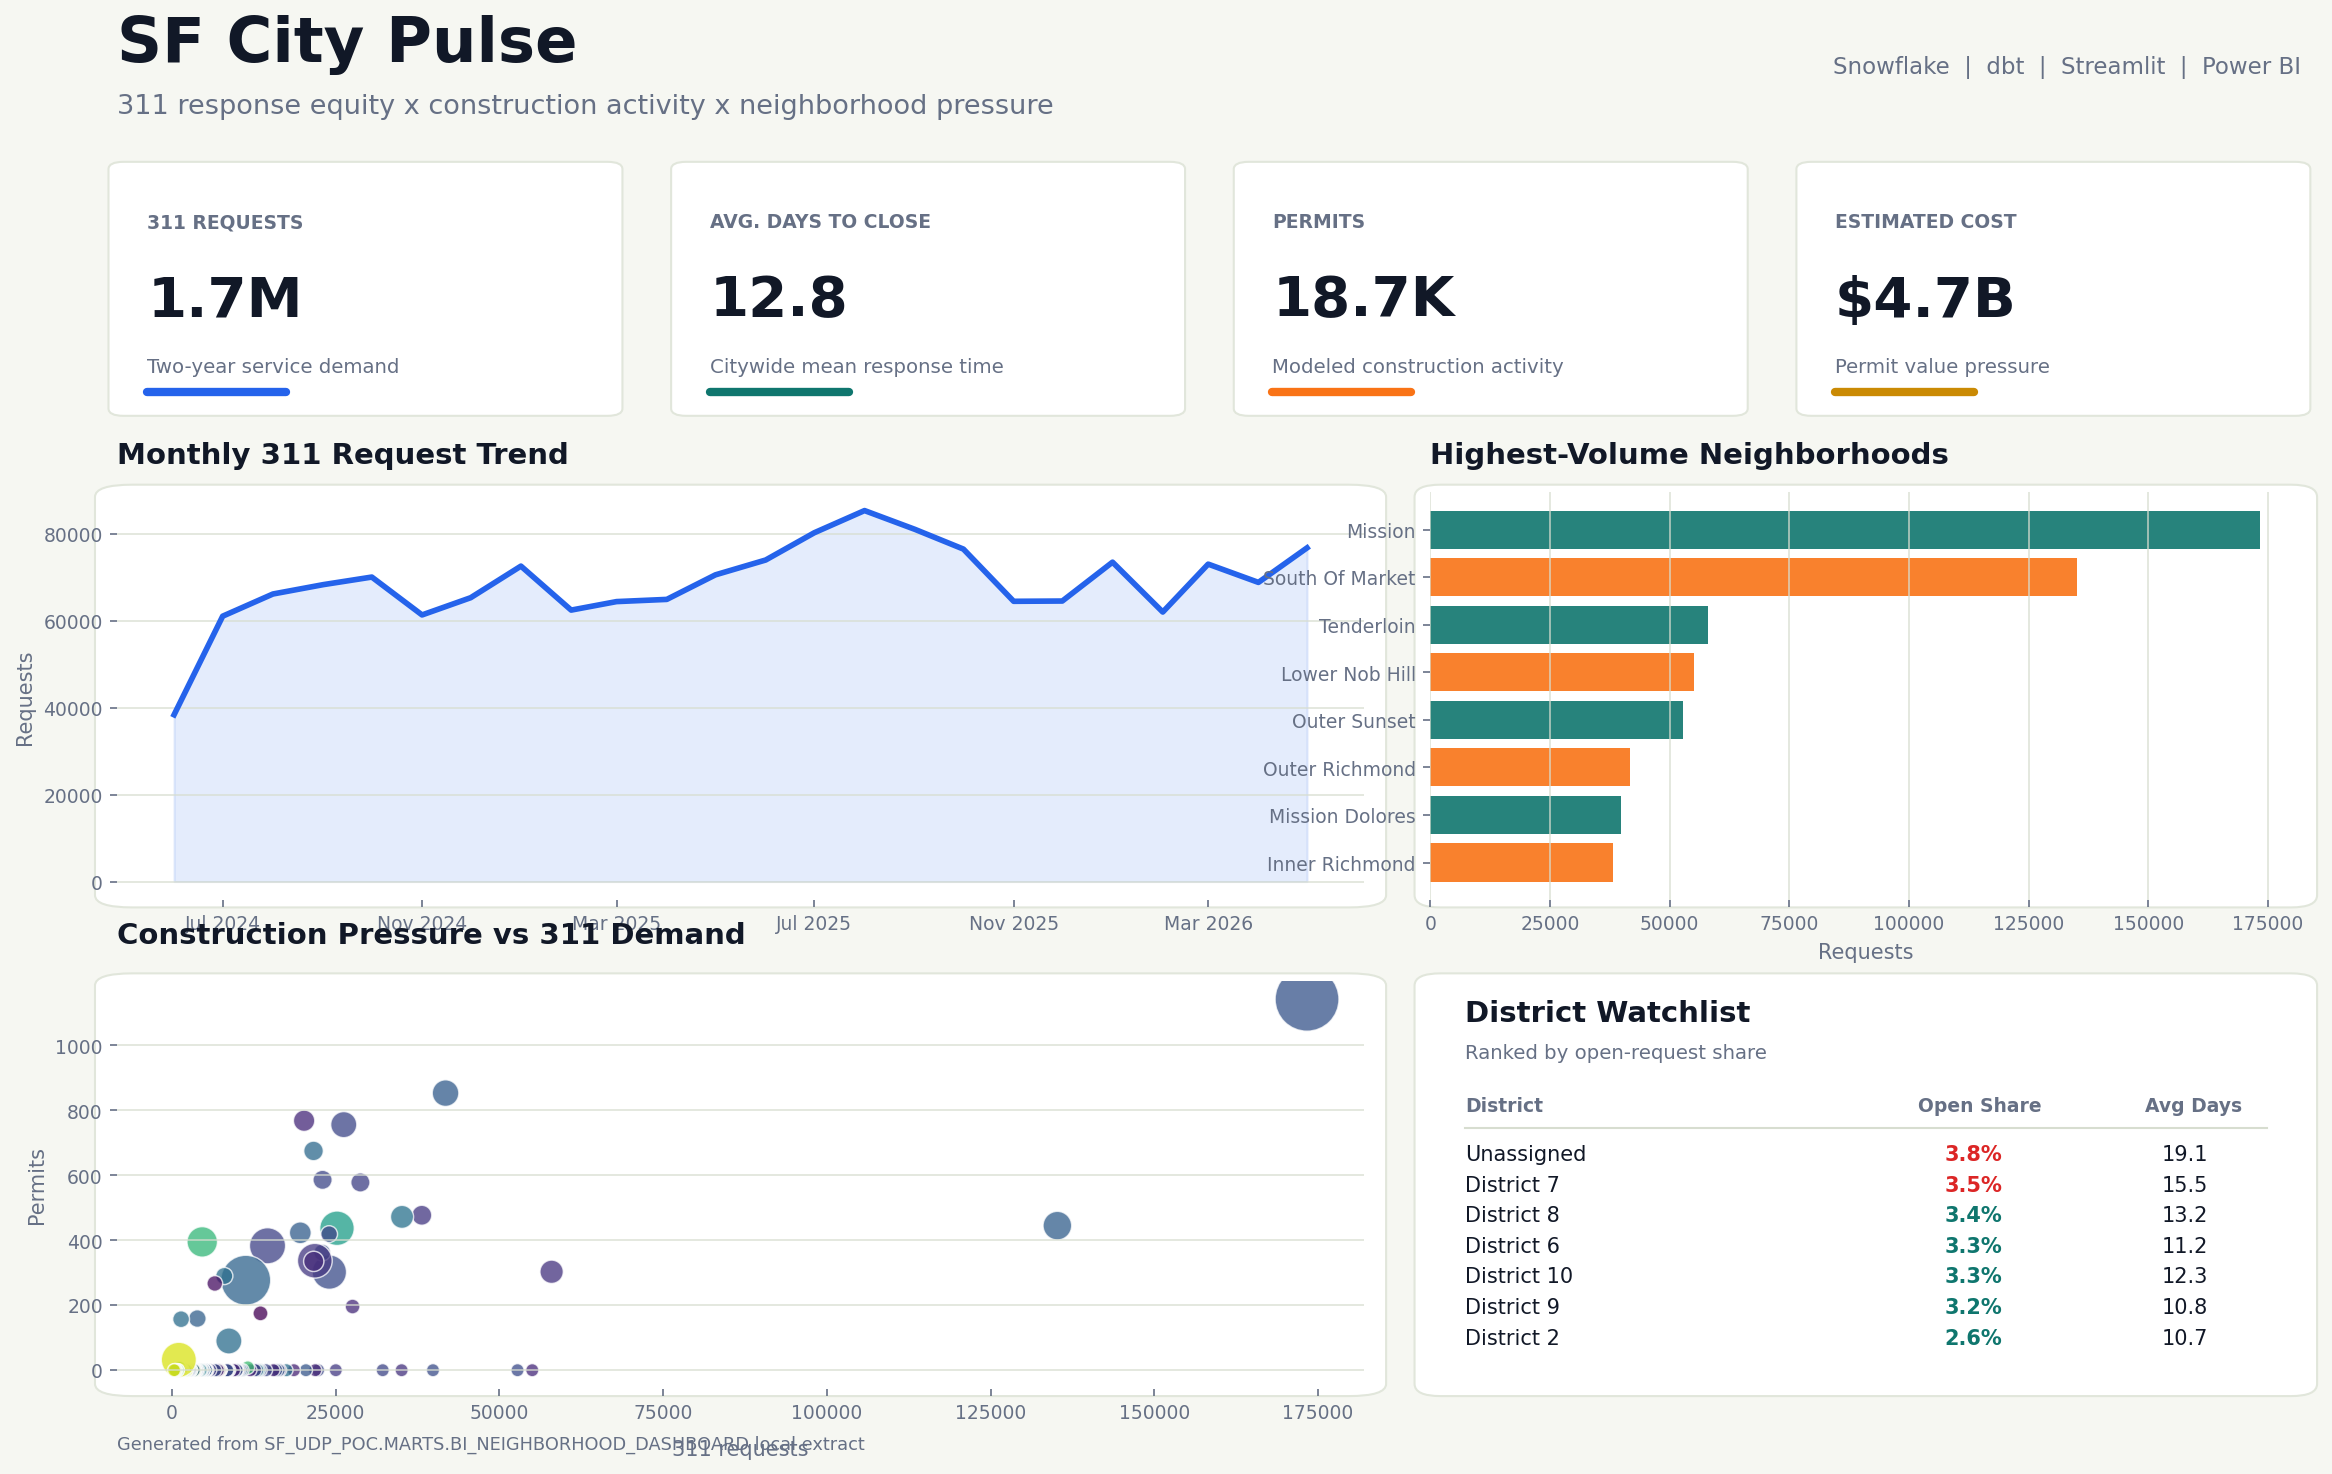
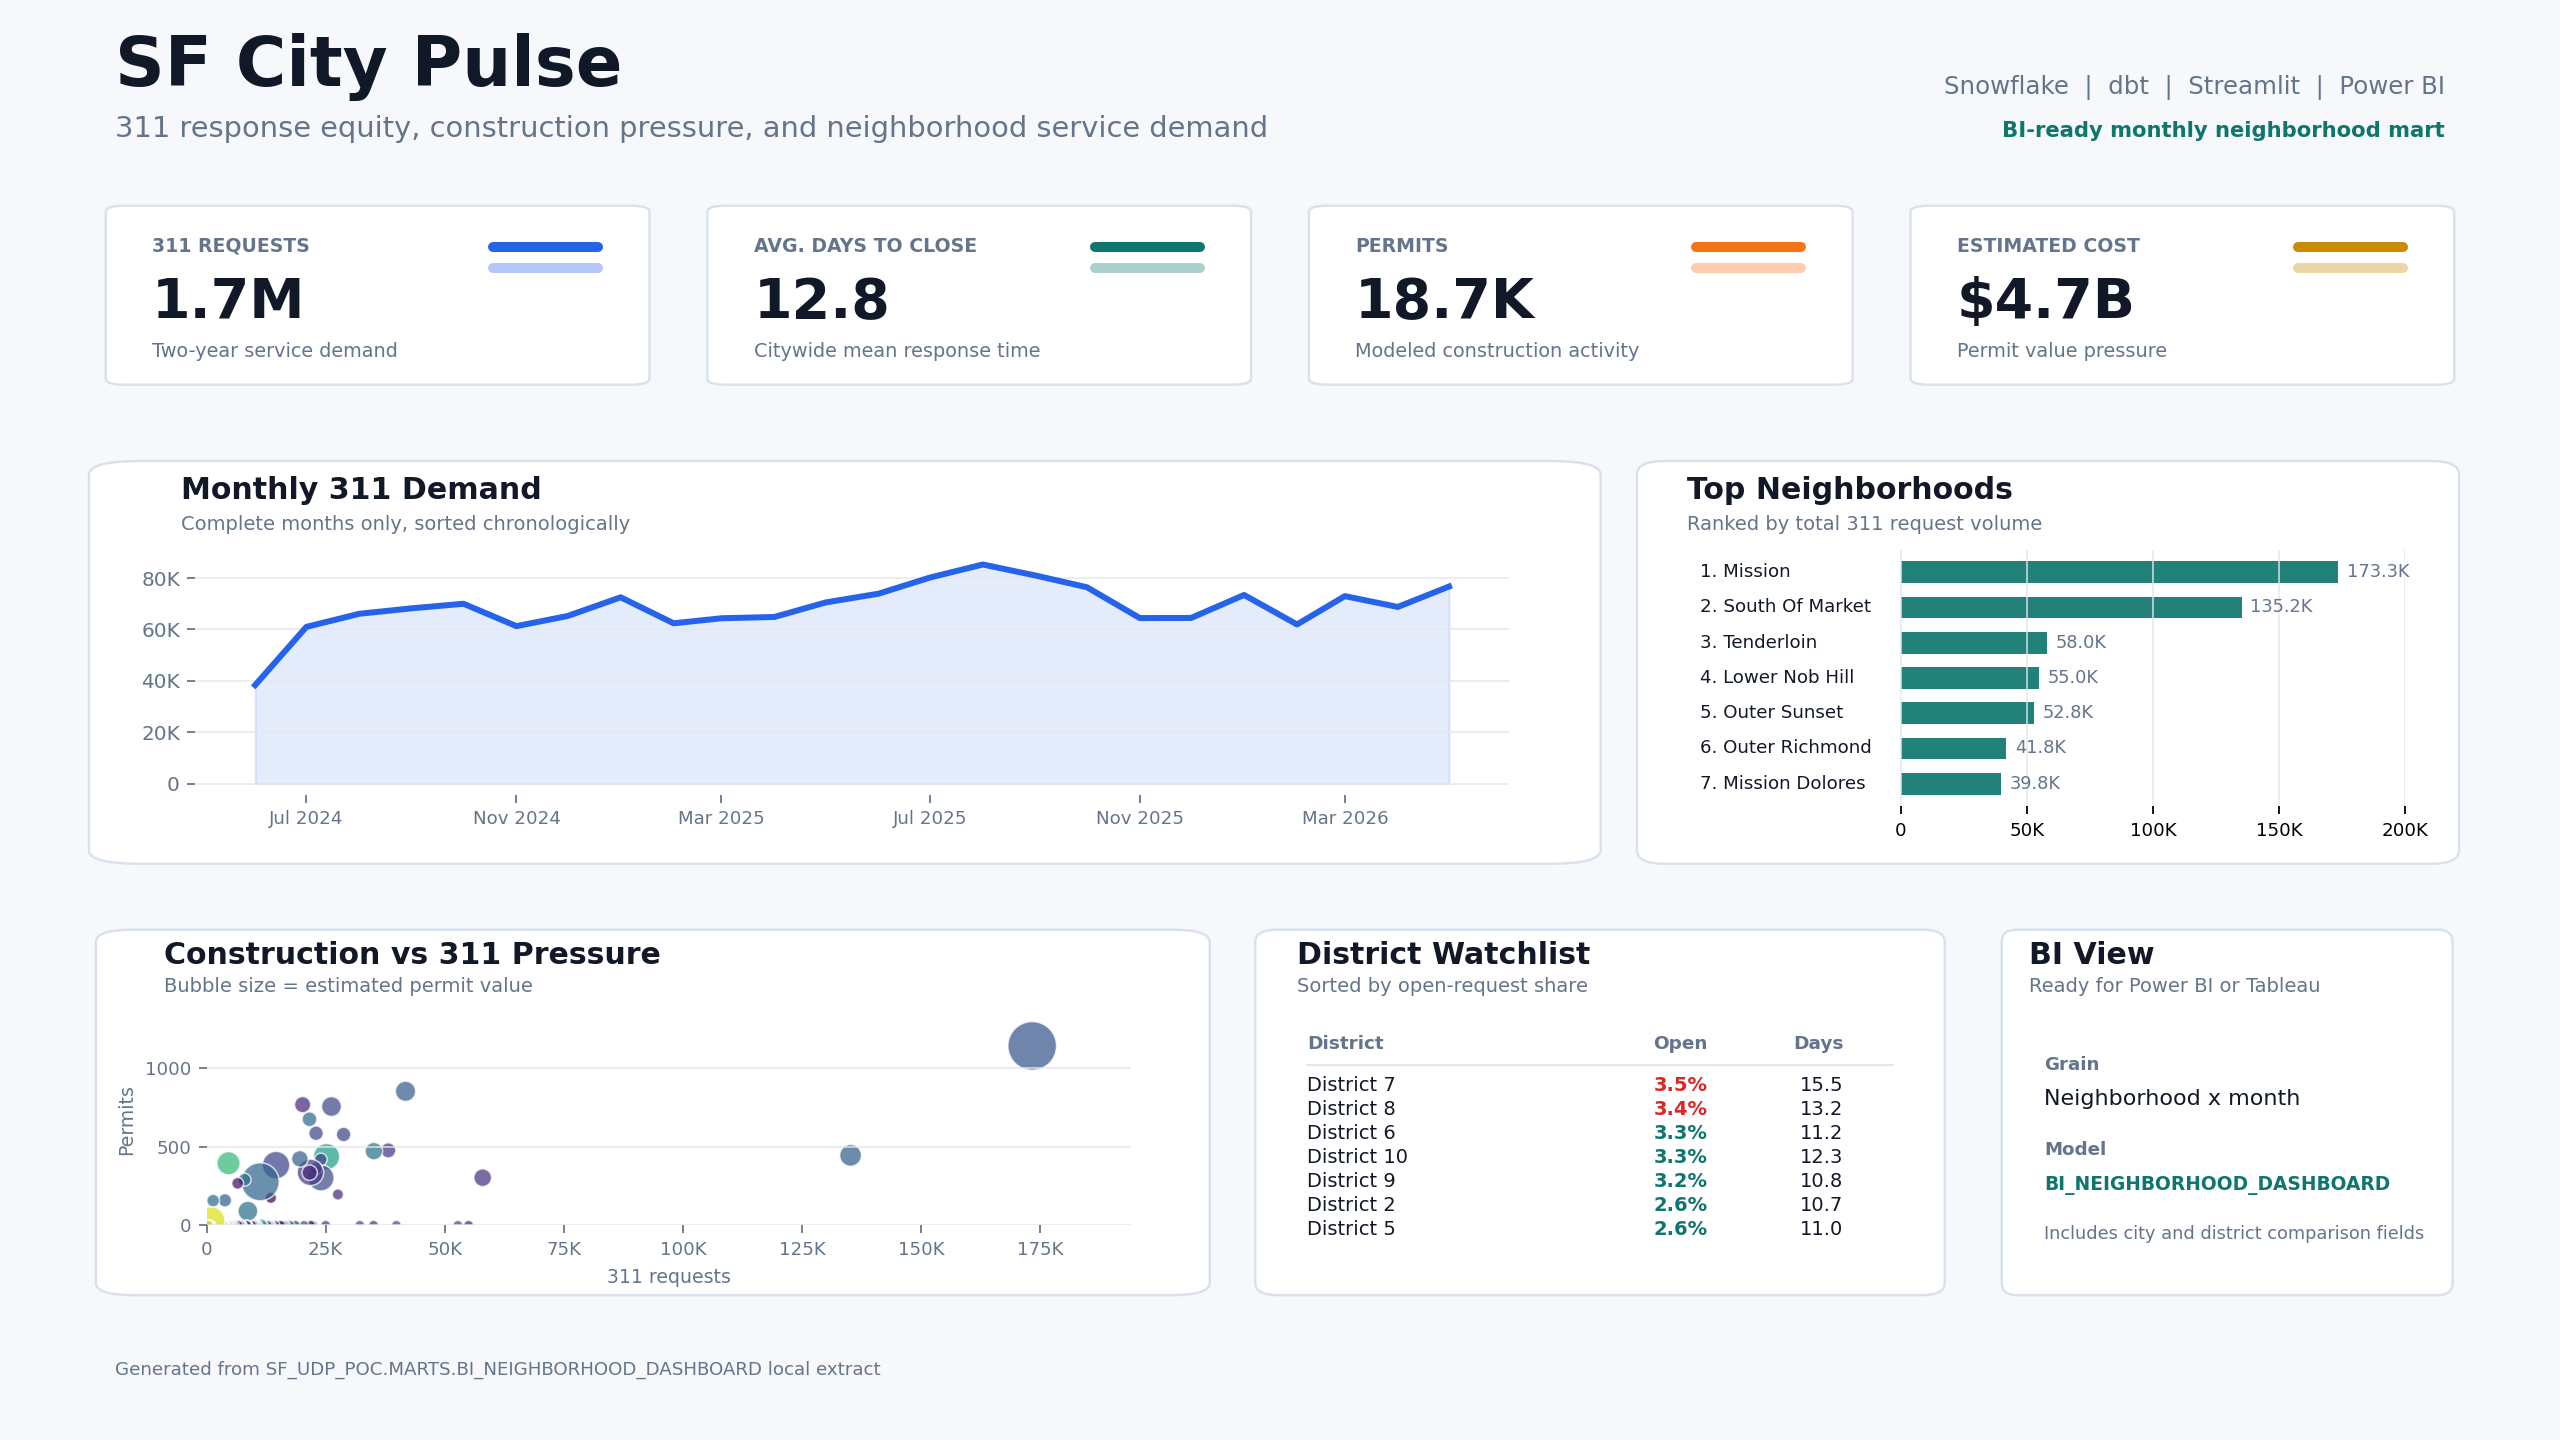
Polish README dashboard preview

diff --git a/scripts/render_readme_dashboard_preview.py b/scripts/render_readme_dashboard_preview.py
@@ -12,21 +12,23 @@ import matplotlib.dates as mdates
 import matplotlib.pyplot as plt
 import pandas as pd
 from matplotlib.patches import FancyBboxPatch
+from matplotlib.ticker import FuncFormatter
 
 
 CSV_PATH = ROOT / "bi" / "sf_city_pulse_powerbi_extract.csv"
 OUTPUT_PATH = ROOT / "docs" / "assets" / "sf-city-pulse-dashboard.png"
 
-BG = "#f6f7f2"
+BG = "#f7f8fb"
 PANEL = "#ffffff"
 INK = "#111827"
-MUTED = "#667085"
-GRID = "#d7ddd0"
+MUTED = "#64748b"
+GRID = "#e5e7eb"
 BLUE = "#2563eb"
 TEAL = "#0f766e"
 CORAL = "#f97316"
 GOLD = "#ca8a04"
 RED = "#dc2626"
+BORDER = "#d9e2ec"
 
 
 def compact_number(value: float, prefix: str = "") -> str:
@@ -41,15 +43,15 @@ def compact_number(value: float, prefix: str = "") -> str:
     return f"{prefix}{value:,.0f}"
 
 
-def add_panel(ax, radius: float = 0.03) -> None:
+def add_panel(ax, radius: float = 0.035) -> None:
     box = FancyBboxPatch(
         (0, 0),
         1,
         1,
         transform=ax.transAxes,
         boxstyle=f"round,pad=0.018,rounding_size={radius}",
-        linewidth=1.0,
-        edgecolor="#e1e6db",
+        linewidth=1.1,
+        edgecolor=BORDER,
         facecolor=PANEL,
         clip_on=False,
         zorder=-10,
@@ -63,6 +65,24 @@ def clean_axis(ax) -> None:
         spine.set_visible(False)
     ax.tick_params(colors=MUTED, labelsize=9)
     ax.grid(True, axis="y", color=GRID, linewidth=0.8, alpha=0.8)
+
+
+def make_panel(fig, rect: list[float], title: str, subtitle: str | None = None):
+    panel = fig.add_axes(rect)
+    add_panel(panel)
+    panel.axis("off")
+    panel.text(0.045, 0.92, title, transform=panel.transAxes, fontsize=13.5, fontweight="bold", color=INK)
+    if subtitle:
+        panel.text(0.045, 0.84, subtitle, transform=panel.transAxes, fontsize=8.8, color=MUTED)
+    return panel
+
+
+def k_formatter(value: float, _pos: int) -> str:
+    if abs(value) >= 1_000_000:
+        return f"{value / 1_000_000:.1f}M"
+    if abs(value) >= 1_000:
+        return f"{value / 1_000:.0f}K"
+    return f"{value:.0f}"
 
 
 def main() -> None:
@@ -101,7 +121,8 @@ def main() -> None:
     )
 
     district = (
-        df.groupby("DISTRICT_LABEL", as_index=False)
+        df[df["DISTRICT_LABEL"] != "Unassigned"]
+        .groupby("DISTRICT_LABEL", as_index=False)
         .agg(
             total_requests=("TOTAL_311_REQUESTS", "sum"),
             open_requests=("OPEN_REQUEST_COUNT", "sum"),
@@ -118,33 +139,34 @@ def main() -> None:
     total_cost = df["TOTAL_ESTIMATED_COST"].sum()
 
     plt.rcParams["font.family"] = "DejaVu Sans"
-    fig = plt.figure(figsize=(16, 10), dpi=150, facecolor=BG)
-    gs = fig.add_gridspec(
-        8,
-        12,
-        left=0.045,
-        right=0.955,
-        top=0.88,
-        bottom=0.065,
-        hspace=0.98,
-        wspace=0.55,
-    )
+    plt.rcParams["axes.titlelocation"] = "left"
 
-    fig.text(0.045, 0.95, "SF City Pulse", fontsize=30, fontweight="bold", color=INK)
+    fig = plt.figure(figsize=(16, 9), dpi=160, facecolor=BG)
+
+    fig.text(0.045, 0.94, "SF City Pulse", fontsize=31, fontweight="bold", color=INK)
     fig.text(
         0.045,
-        0.915,
-        "311 response equity x construction activity x neighborhood pressure",
+        0.905,
+        "311 response equity, construction pressure, and neighborhood service demand",
         fontsize=13,
         color=MUTED,
     )
     fig.text(
         0.955,
-        0.942,
+        0.935,
         "Snowflake  |  dbt  |  Streamlit  |  Power BI",
         fontsize=11,
         color=MUTED,
         ha="right",
+    )
+    fig.text(
+        0.955,
+        0.905,
+        "BI-ready monthly neighborhood mart",
+        fontsize=9.5,
+        color=TEAL,
+        ha="right",
+        fontweight="bold",
     )
 
     kpi_specs = [
@@ -155,81 +177,123 @@ def main() -> None:
     ]
 
     for i, (label, value, note, color) in enumerate(kpi_specs):
-        ax = fig.add_subplot(gs[0:2, i * 3 : (i + 1) * 3])
+        ax = fig.add_axes([0.045 + i * 0.235, 0.735, 0.205, 0.12])
         add_panel(ax)
         ax.axis("off")
-        ax.text(0.06, 0.75, label.upper(), transform=ax.transAxes, fontsize=9, color=MUTED, fontweight="bold")
-        ax.text(0.06, 0.39, value, transform=ax.transAxes, fontsize=27, color=INK, fontweight="bold")
-        ax.text(0.06, 0.16, note, transform=ax.transAxes, fontsize=9.5, color=MUTED)
-        ax.plot([0.06, 0.34], [0.08, 0.08], transform=ax.transAxes, color=color, linewidth=4, solid_capstyle="round")
+        ax.text(0.07, 0.75, label.upper(), transform=ax.transAxes, fontsize=8.5, color=MUTED, fontweight="bold")
+        ax.text(0.07, 0.37, value, transform=ax.transAxes, fontsize=25, color=INK, fontweight="bold")
+        ax.text(0.07, 0.14, note, transform=ax.transAxes, fontsize=8.7, color=MUTED)
+        ax.plot([0.72, 0.92], [0.78, 0.78], transform=ax.transAxes, color=color, linewidth=4.5, solid_capstyle="round")
+        ax.plot([0.72, 0.92], [0.66, 0.66], transform=ax.transAxes, color=color, linewidth=4.5, alpha=0.35, solid_capstyle="round")
 
-    ax_trend = fig.add_subplot(gs[2:5, 0:7])
-    add_panel(ax_trend)
-    clean_axis(ax_trend)
+    trend_panel = make_panel(
+        fig,
+        [0.045, 0.405, 0.57, 0.27],
+        "Monthly 311 Demand",
+        "Complete months only, sorted chronologically",
+    )
+    ax_trend = trend_panel.inset_axes([0.055, 0.16, 0.9, 0.62])
     ax_trend.plot(trend_monthly["MONTH_START_DATE"], trend_monthly["total_requests"], color=BLUE, linewidth=2.7)
     ax_trend.fill_between(trend_monthly["MONTH_START_DATE"], trend_monthly["total_requests"], color=BLUE, alpha=0.12)
-    ax_trend.set_title("Monthly 311 Request Trend", loc="left", fontsize=14, fontweight="bold", color=INK, pad=14)
-    ax_trend.set_ylabel("Requests", color=MUTED)
+    clean_axis(ax_trend)
+    ax_trend.yaxis.set_major_formatter(FuncFormatter(k_formatter))
     ax_trend.xaxis.set_major_formatter(mdates.DateFormatter("%b %Y"))
     ax_trend.xaxis.set_major_locator(mdates.MonthLocator(interval=4))
-    ax_trend.tick_params(axis="x", rotation=0)
+    ax_trend.tick_params(axis="x", labelsize=8.2)
 
-    ax_bar = fig.add_subplot(gs[2:5, 7:12])
-    add_panel(ax_bar)
-    clean_axis(ax_bar)
-    top_neighborhoods = neighborhoods.head(8).sort_values("total_requests")
-    colors = [TEAL if i % 2 else CORAL for i in range(len(top_neighborhoods))]
-    ax_bar.barh(top_neighborhoods["NEIGHBORHOOD"], top_neighborhoods["total_requests"], color=colors, alpha=0.9)
-    ax_bar.set_title("Highest-Volume Neighborhoods", loc="left", fontsize=14, fontweight="bold", color=INK, pad=14)
-    ax_bar.set_xlabel("Requests", color=MUTED)
+    bar_panel = make_panel(
+        fig,
+        [0.645, 0.405, 0.31, 0.27],
+        "Top Neighborhoods",
+        "Ranked by total 311 request volume",
+    )
+    ax_bar = bar_panel.inset_axes([0.05, 0.13, 0.9, 0.66])
+    top_neighborhoods = neighborhoods.head(7).copy()
+    y_positions = range(len(top_neighborhoods))
+    max_requests = top_neighborhoods["total_requests"].max()
+    ax_bar.barh(y_positions, top_neighborhoods["total_requests"], color=TEAL, alpha=0.92, height=0.62)
+    ax_bar.set_yticks([])
+    ax_bar.set_xlim(-max_requests * 0.48, max_requests * 1.12)
+    ax_bar.set_xticks(list(range(0, int(max_requests * 1.05) + 50_000, 50_000)))
+    ax_bar.invert_yaxis()
+    ax_bar.xaxis.set_major_formatter(FuncFormatter(k_formatter))
+    ax_bar.tick_params(axis="x", labelsize=8.2)
     ax_bar.grid(True, axis="x", color=GRID, linewidth=0.8, alpha=0.8)
     ax_bar.grid(False, axis="y")
+    for rank, row in enumerate(top_neighborhoods.itertuples(index=False), start=1):
+        y = rank - 1
+        ax_bar.text(-max_requests * 0.46, y, f"{rank}. {row.NEIGHBORHOOD}", va="center", fontsize=8.2, color=INK)
+        ax_bar.text(row.total_requests + max_requests * 0.02, y, compact_number(row.total_requests), va="center", fontsize=8.0, color=MUTED)
+    for spine in ax_bar.spines.values():
+        spine.set_visible(False)
 
-    ax_scatter = fig.add_subplot(gs[5:8, 0:7])
-    add_panel(ax_scatter)
-    clean_axis(ax_scatter)
-    scatter_data = neighborhoods[neighborhoods["total_requests"] > 100].copy()
-    sizes = (scatter_data["estimated_cost"].clip(lower=0) / max(scatter_data["estimated_cost"].max(), 1)) * 900 + 40
+    scatter_panel = make_panel(
+        fig,
+        [0.045, 0.105, 0.42, 0.245],
+        "Construction vs 311 Pressure",
+        "Bubble size = estimated permit value",
+    )
+    ax_scatter = scatter_panel.inset_axes([0.085, 0.18, 0.86, 0.6])
+    scatter_data = neighborhoods[neighborhoods["total_requests"] > 250].copy()
+    sizes = (scatter_data["estimated_cost"].clip(lower=0) / max(scatter_data["estimated_cost"].max(), 1)) * 460 + 20
     ax_scatter.scatter(
         scatter_data["total_requests"],
         scatter_data["total_permits"],
         s=sizes,
         c=scatter_data["avg_days"],
         cmap="viridis",
-        alpha=0.76,
+        alpha=0.72,
         edgecolors="#ffffff",
         linewidths=0.7,
     )
-    ax_scatter.set_title("Construction Pressure vs 311 Demand", loc="left", fontsize=14, fontweight="bold", color=INK, pad=18)
-    ax_scatter.set_xlabel("311 requests", color=MUTED, labelpad=8)
-    ax_scatter.set_ylabel("Permits", color=MUTED)
+    clean_axis(ax_scatter)
+    ax_scatter.set_xlim(0, scatter_data["total_requests"].max() * 1.12)
+    ax_scatter.set_ylim(0, scatter_data["total_permits"].max() * 1.18)
+    ax_scatter.xaxis.set_major_formatter(FuncFormatter(k_formatter))
+    ax_scatter.tick_params(axis="both", labelsize=8.2)
+    ax_scatter.set_xlabel("311 requests", color=MUTED, labelpad=4, fontsize=8.5)
+    ax_scatter.set_ylabel("Permits", color=MUTED, labelpad=4, fontsize=8.5)
 
-    ax_table = fig.add_subplot(gs[5:8, 7:12])
-    add_panel(ax_table)
-    ax_table.axis("off")
-    ax_table.text(0.04, 0.9, "District Watchlist", transform=ax_table.transAxes, fontsize=14, fontweight="bold", color=INK)
-    ax_table.text(0.04, 0.81, "Ranked by open-request share", transform=ax_table.transAxes, fontsize=9.5, color=MUTED)
-    ax_table.text(0.04, 0.68, "District", transform=ax_table.transAxes, fontsize=9, color=MUTED, fontweight="bold")
-    ax_table.text(0.56, 0.68, "Open Share", transform=ax_table.transAxes, fontsize=9, color=MUTED, fontweight="bold")
-    ax_table.text(0.82, 0.68, "Avg Days", transform=ax_table.transAxes, fontsize=9, color=MUTED, fontweight="bold")
-    ax_table.plot([0.04, 0.96], [0.64, 0.64], transform=ax_table.transAxes, color=GRID, linewidth=1)
+    district_panel = make_panel(
+        fig,
+        [0.495, 0.105, 0.26, 0.245],
+        "District Watchlist",
+        "Sorted by open-request share",
+    )
+    ax_table = district_panel
+    ax_table.text(0.06, 0.68, "District", transform=ax_table.transAxes, fontsize=8.3, color=MUTED, fontweight="bold")
+    ax_table.text(0.58, 0.68, "Open", transform=ax_table.transAxes, fontsize=8.3, color=MUTED, fontweight="bold")
+    ax_table.text(0.79, 0.68, "Days", transform=ax_table.transAxes, fontsize=8.3, color=MUTED, fontweight="bold")
+    ax_table.plot([0.06, 0.94], [0.635, 0.635], transform=ax_table.transAxes, color=GRID, linewidth=1)
 
     for row_index, row in enumerate(district.itertuples(index=False), start=0):
-        y = 0.56 - row_index * 0.075
+        y = 0.56 - row_index * 0.068
         color = RED if row.open_share >= district["open_share"].quantile(0.75) else TEAL
-        ax_table.text(0.04, y, row.DISTRICT_LABEL, transform=ax_table.transAxes, fontsize=10, color=INK)
-        ax_table.text(0.59, y, f"{row.open_share:.1%}", transform=ax_table.transAxes, fontsize=10, color=color, fontweight="bold")
-        ax_table.text(0.84, y, f"{row.avg_days:.1f}", transform=ax_table.transAxes, fontsize=10, color=INK)
+        ax_table.text(0.06, y, row.DISTRICT_LABEL, transform=ax_table.transAxes, fontsize=8.8, color=INK)
+        ax_table.text(0.58, y, f"{row.open_share:.1%}", transform=ax_table.transAxes, fontsize=8.8, color=color, fontweight="bold")
+        ax_table.text(0.80, y, f"{row.avg_days:.1f}", transform=ax_table.transAxes, fontsize=8.8, color=INK)
+
+    story_panel = make_panel(
+        fig,
+        [0.785, 0.105, 0.17, 0.245],
+        "BI View",
+        "Ready for Power BI or Tableau",
+    )
+    story_panel.text(0.08, 0.62, "Grain", transform=story_panel.transAxes, fontsize=8.2, color=MUTED, fontweight="bold")
+    story_panel.text(0.08, 0.52, "Neighborhood x month", transform=story_panel.transAxes, fontsize=10, color=INK)
+    story_panel.text(0.08, 0.38, "Model", transform=story_panel.transAxes, fontsize=8.2, color=MUTED, fontweight="bold")
+    story_panel.text(0.08, 0.28, "BI_NEIGHBORHOOD_DASHBOARD", transform=story_panel.transAxes, fontsize=8.4, color=TEAL, fontweight="bold")
+    story_panel.text(0.08, 0.14, "Includes city and district comparison fields", transform=story_panel.transAxes, fontsize=8.0, color=MUTED)
 
     fig.text(
         0.045,
-        0.025,
+        0.045,
         "Generated from SF_UDP_POC.MARTS.BI_NEIGHBORHOOD_DASHBOARD local extract",
-        fontsize=8.5,
+        fontsize=8.2,
         color=MUTED,
     )
 
-    fig.savefig(OUTPUT_PATH, facecolor=BG, bbox_inches="tight")
+    fig.savefig(OUTPUT_PATH, facecolor=BG)
     print(OUTPUT_PATH)
 
 